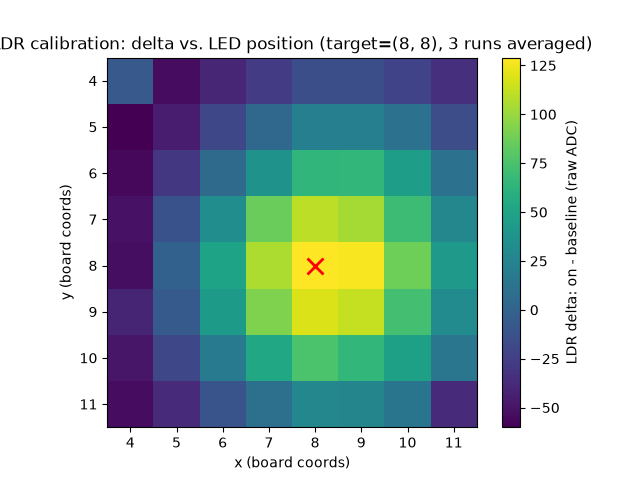
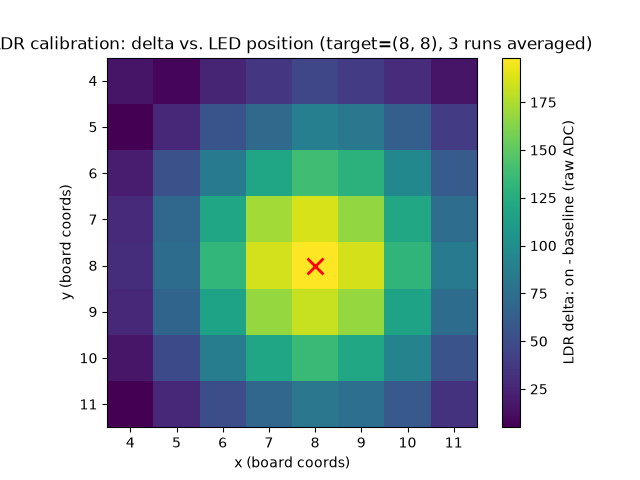
Auto-detect the Windows username in run_docker.sh, refresh calibration data, add rig photo
- run_docker.sh/docker_setup.md: auto-detect the Windows username via
  cmd.exe (falling back to $USER) instead of a hardcoded placeholder, so
  the Windows-side SSH key injection actually works for whoever runs it
- Refresh committed LDR calibration data/plot from a real hardware run
- Bump the demo config's default seed
- Add an unreferenced photo of the physical LED panel to assets/ for
  future use (not yet linked from the README)

diff --git a/docker/docker_setup.md b/docker/docker_setup.md
@@ -12,7 +12,7 @@ Docker Engine runs natively inside WSL2 (Ubuntu 20.04), managed by systemd. Ther
 `/etc/wsl.conf` has `systemd=true` so systemd runs as PID 1 inside WSL2. Docker is managed as a systemd service via socket activation — the daemon starts on first `docker` command.
 
 ### Docker group
-The `youruser` user is in the `docker` group, so `docker` commands work without `sudo`.
+Your WSL user is in the `docker` group, so `docker` commands work without `sudo`.
 
 ### Auto-start in `.bashrc`
 ```bash
@@ -68,7 +68,7 @@ This script:
    - `--shm-size=16g` for PyTorch DataLoader workers
    - Port `2222:22` for SSH
    - Ports `6006` (TensorBoard) and `8888` (Jupyter)
-3. Injects SSH public keys from both WSL (`~/.ssh/`) and Windows (`/c/Users/youruser/.ssh/`) into `/root/.ssh/authorized_keys`
+3. Injects SSH public keys from both WSL (`~/.ssh/`) and Windows (`/c/Users/<win-user>/.ssh/`) into `/root/.ssh/authorized_keys`, where `<win-user>` is auto-detected via `cmd.exe` (falls back to `$USER`)
 
 ### Why the VS Code extension and Claude login used to reset every run
 
@@ -93,17 +93,17 @@ Two keys are authorized inside the container:
 | Key | Location | Used by |
 |-----|----------|---------|
 | `id_ed25519` (WSL) | `~/.ssh/id_ed25519` | WSL terminal SSH |
-| `id_ed25519` (Windows) | `C:\Users\youruser\.ssh\id_ed25519` | VS Code Remote-SSH |
+| `id_ed25519` (Windows) | `C:\Users\<win-user>\.ssh\id_ed25519` | VS Code Remote-SSH |
 
 These are **different key pairs** — both are injected on container start by `docker/run_docker.sh`.
 
-The Windows SSH config at `C:\Users\youruser\.ssh\config` has:
+The Windows SSH config at `C:\Users\<win-user>\.ssh\config` has:
 ```
 Host training-container
     HostName localhost
     Port 2222
     User root
-    IdentityFile C:\Users\youruser\.ssh\id_ed25519
+    IdentityFile C:\Users\<win-user>\.ssh\id_ed25519
     StrictHostKeyChecking no
     UserKnownHostsFile /dev/null
 ```
